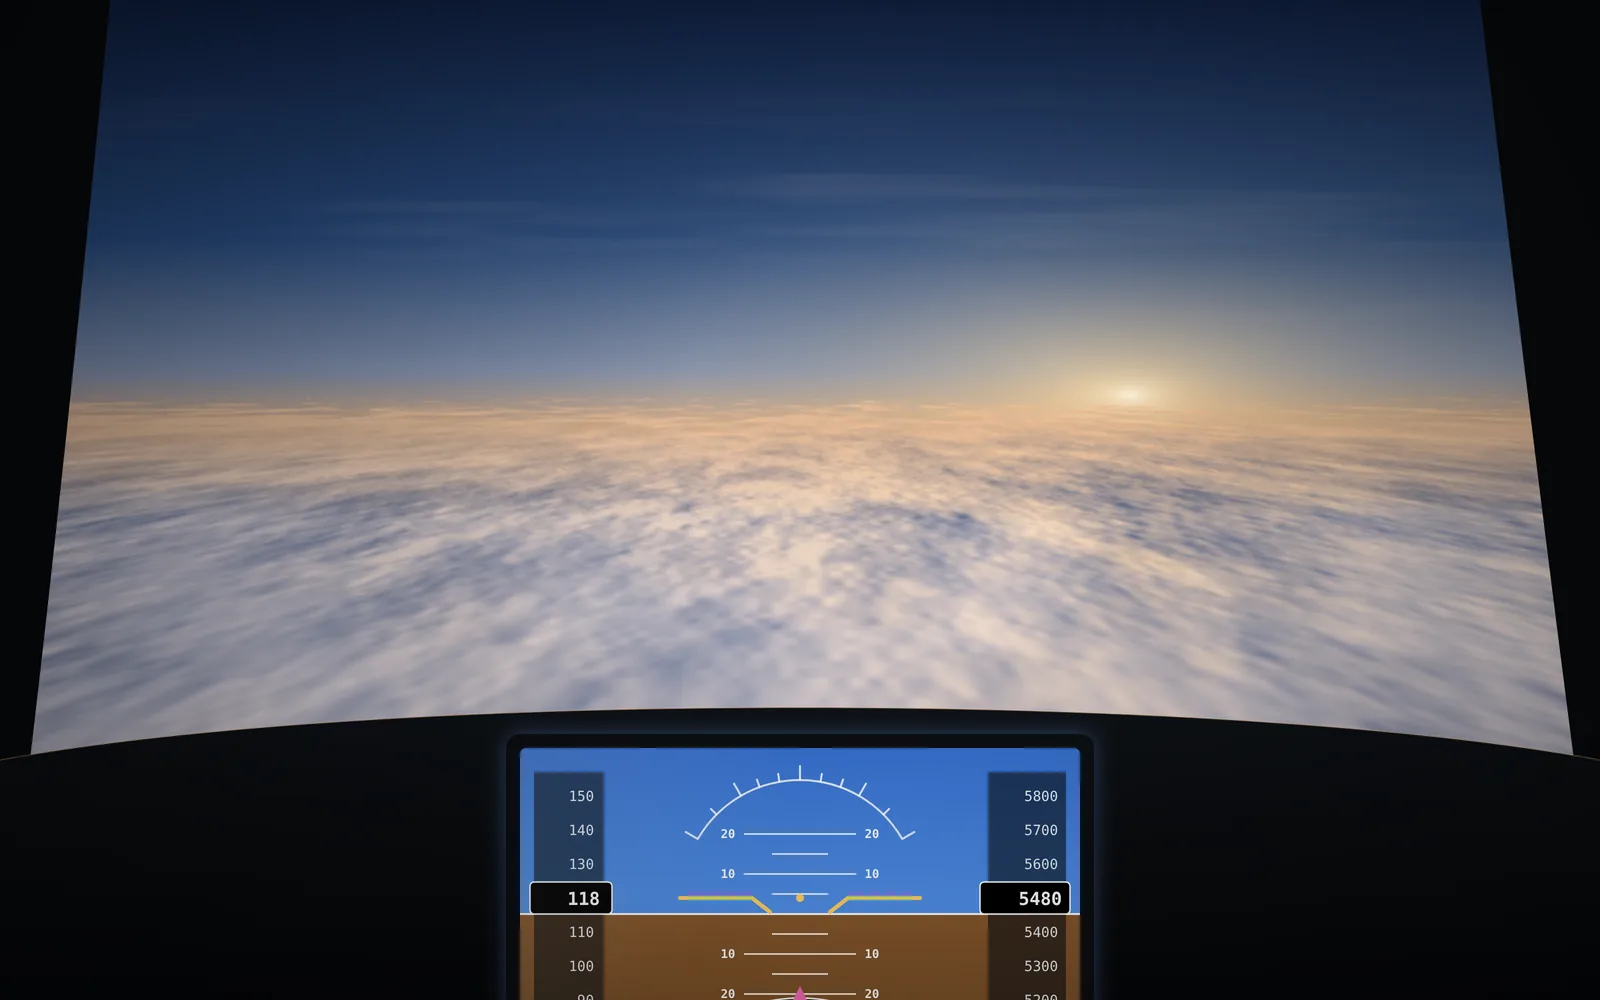
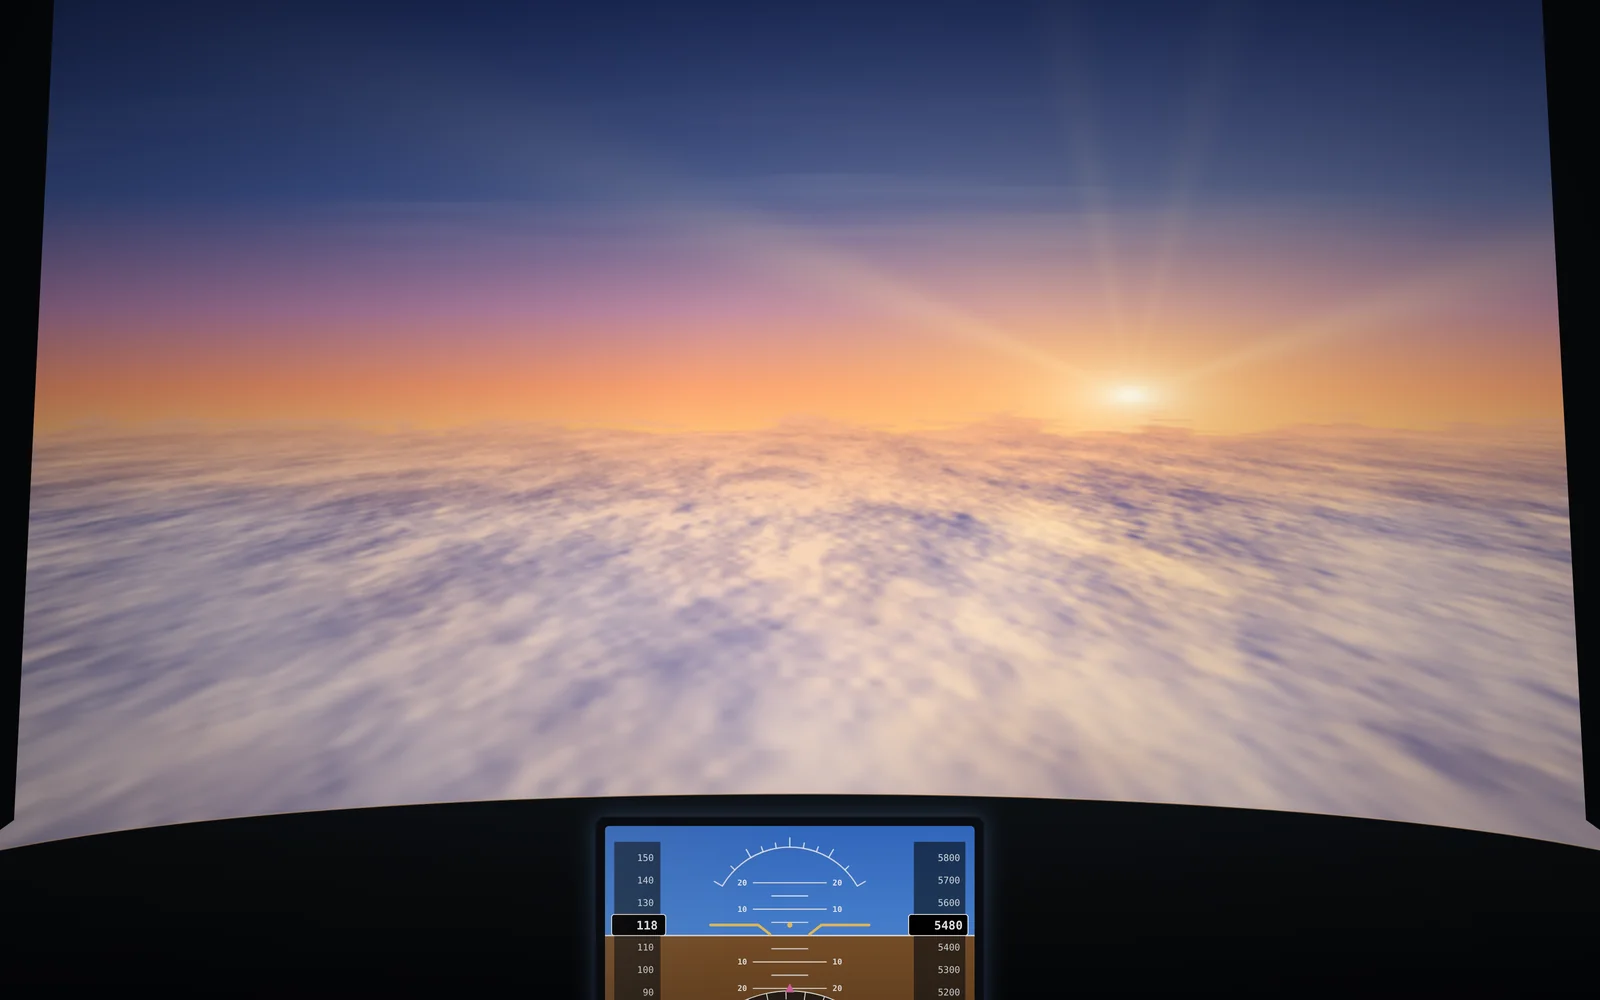
IFR trainer hero: warmer sunset picture (pink and gold sky, sun rays, golden light on the cloud sea, smaller cockpit)
Claude-Session: https://claude.ai/code/session_01S9gHm5F4xzYGza9M3shrRs

diff --git a/ifr.js b/ifr.js
@@ -773,8 +773,8 @@ const difHTML=d=>`<span class="dif" aria-hidden="true"><i class="on"></i><i clas
 function progHTML(id){ const p=passed(id), bs=best(id); if(bs===null) return `<span class="pg none">${tx('Not flown yet','Ikke fløyet ennå')}</span>`;
   return `<span class="pg"><span class="pips" role="img" aria-label="${esc(tx(`${p} of 4 levels passed`,`${p} av 4 nivåer bestått`))}">${[1,2,3,4].map(k=>`<i class="${k<=p?'on':''}"></i>`).join('')}</span>${tx('Best','Beste')} ${bs}</span>`; }
 function renderHero(){ const L0=PROG.last&&I.ITEM[PROG.last.item]?PROG.last:null, rec=recommended(), n=CORE.indexOf(rec)+1;
-  el('figCap').innerHTML=`<b>${tx('On top','Over skyene')}</b><span>${tx('Inside the cloud you see nothing outside. The instruments take you up through it, onto the right track and back down to the runway.','Inne i skyen ser du ingenting ute. Instrumentene tar deg opp gjennom den, inn på riktig kurs og ned igjen til rullebanen.')}</span>`;
-  { const im=document.querySelector('.hero-img'); if(im) im.alt=tx('View from the cockpit just above a layer of cloud at dusk, the sun low on the horizon and the attitude display glowing on the panel.','Utsikt fra cockpit like over et skylag i skumringen, med solen lavt over horisonten og attitydeskjermen opplyst i panelet.'); }
+  el('figCap').innerHTML=`<b>${tx('Above the clouds','Over skyene')}</b><span>${tx('Inside the cloud you see nothing outside. The instruments take you up through it, onto the right track and back down to the runway.','Inne i skyen ser du ingenting ute. Instrumentene tar deg opp gjennom den, inn på riktig kurs og ned igjen til rullebanen.')}</span>`;
+  { const im=document.querySelector('.hero-img'); if(im) im.alt=tx('View from the cockpit just above a sea of cloud at sunset, the sun low on the horizon with rays across a pink and gold sky, and the attitude display glowing on the panel.','Utsikt fra cockpit like over et skyhav i solnedgangen, med solen lavt over horisonten, solstråler over en rosa og gyllen himmel og attitydeskjermen opplyst i panelet.'); }
   if(MODE==='refresh'){ el('lead').textContent=tx('For pilots who want to stay sharp. Fly the procedures the way a check is flown, straight into the cockpit with no walk-through, and see exactly where you are rusty.','For piloter som vil holde seg skarpe. Fly prosedyrene slik en sjekk flys, rett inn i cockpit uten gjennomgang, og se nøyaktig hvor du er rusten.');
     el('heroCta').innerHTML=`<button class="btn2 pri lg" type="button" id="rcGo">${tx('Start the refresher check','Start oppfriskningssjekken')}</button>`+(L0?`<button class="btn2 lg" type="button" id="rcCont"><span class="k">${tx('Continue','Fortsett')}</span>${esc(itemName(L0.item))}</button>`:'')+`<a class="btn2 q lg" href="#all" id="toAll">${tx('Practise one procedure','Øv på én prosedyre')}</a>`;
     el('rcGo').onclick=startCheck; if(el('rcCont')) el('rcCont').onclick=()=>{ const l=PROG.last; openItem(l.item,{p:l.custom?l.p:null,custom:l.custom,lv:l.lv,area:l.area,seed:l.custom?l.seed:undefined,step:'fly'}); };

diff --git a/ifr.html b/ifr.html
@@ -690,7 +690,7 @@ body.mode-refresh #heroFig{display:block!important}
       <span class="tag caution" id="disc">Training aid · not for navigation</span>
     </div>
     <figure class="hero-fig" id="heroFig">
-      <img class="hero-img" src="img/training/ifr-hero-1600.webp" srcset="img/training/ifr-hero-900.webp 900w, img/training/ifr-hero-1600.webp 1600w" sizes="(max-width:900px) calc(100vw - 48px), 620px" width="1600" height="1000" alt="View from the cockpit just above a layer of cloud at dusk, the sun low on the horizon and the attitude display glowing on the panel." data-alt-no="Utsikt fra cockpit like over et skylag i skumringen, med solen lavt over horisonten og attitydeskjermen opplyst i panelet.">
+      <img class="hero-img" src="img/training/ifr-hero-1600.webp?v=2" srcset="img/training/ifr-hero-900.webp?v=2 900w, img/training/ifr-hero-1600.webp?v=2 1600w" sizes="(max-width:900px) calc(100vw - 48px), 620px" width="1600" height="1000" alt="View from the cockpit just above a layer of cloud at dusk, the sun low on the horizon and the attitude display glowing on the panel." data-alt-no="Utsikt fra cockpit like over et skylag i skumringen, med solen lavt over horisonten og attitydeskjermen opplyst i panelet.">
       <div class="mini" aria-hidden="true" hidden>
         <div class="mini-bar"><b id="miniName">Holding entry</b><span class="hidep" id="miniSteps">Understand · Think first · Fly · Debrief</span><span class="sp"></span><span class="on" id="miniLab">Guided</span></div>
         <div class="mini-clr" id="miniClr"></div>
@@ -798,6 +798,6 @@ body.mode-refresh #heroFig{display:block!important}
 <script src="navgauges.js?v=5"></script>
 <script src="ifrcore.js?v=4"></script>
 <script src="glossary.js?v=4"></script>
-<script src="ifr.js?v=12"></script>
+<script src="ifr.js?v=13"></script>
 </body>
 </html>
